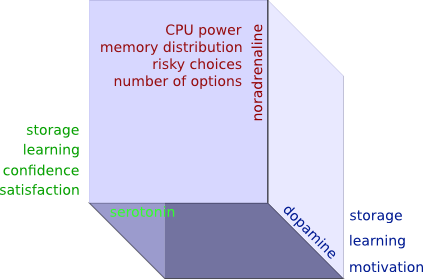
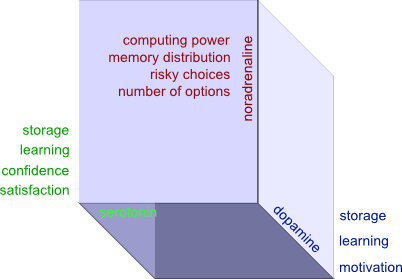
2-160 completed Conclusion section

diff --git a/doc/emotions/computational emotions via virtual neuromodulators/artificial_emotions_via_virtual_neuromodulators.md b/doc/emotions/computational emotions via virtual neuromodulators/artificial_emotions_via_virtual_neuromodulators.md
@@ -91,7 +91,7 @@ Having neuromodulation mechanisms understanding, mainly the roles of neuromodula
 ![parameter mapping](cube_of_parameters_agi.png)
 
 1. Generic:
-  2. CPU power: noradrenaline
+  2. Computing power: noradrenaline
   2. Memory distribution (attention): noradrenaline
   2. Learning: serotonin, dopamine
   2. Storage: serotonin, dopamine
@@ -231,8 +231,45 @@ H-CogAff is more of philosophical framework to build the cognitive architecture,
 
 We created sythetic theory of emotions based on for starting points: Robert Plutchick "Wheel of emotions" [natureofemotions, senticcomputing] as highlevel subjective model of emoitons, Tomkins theory of affects [primer_affect_psychology] as low level objective model of affects/emotions, Hugo Lovheim "Cube of emotions" [cubeofemotions] as objective neurophysiological mechanism, Marvin Minsky "The emotion machine" [emotionmachine] as cognitive architecture environment for all mechanisms listed above.
 
+Our main assumption is that there could be two models of emotions: innate low level based on affects, and high level self emerged during childhood nurture and education. This two models should correspond and have mechanism to influence each other. This is done in one more model neuromodulatory bases of emotions [cubeofemotions, neuromodulatory].
+Overall the emotional processes have following structure: stimulus non-conscious appraisal, neuromodulation (physiological emotional state switch), conscious appraisal with possible deliberation and possible coping strategy selection, coping strategy application over environment. As coping, or some other behavior is applied over environment its state is appraised again as new stimulus. This processes is called feedback loop [natureofemotions] and creates everlasting spiral process of emotions appraisal -> neuromodulation (physiological impact) -> coping. In the similar way high level thinking processes could influence emotional state: for example reflective thinking could trigger neuromodulation switching emotional state of a system and start/stop cognitive appraisal, deliberation.
+Thus neuromodulators are main actors of objective brain response we mapped their impact over computational system parameters:
 
+1. Generic:
+  2. Computing power: noradrenaline
+  2. Memory distribution (attention): noradrenaline
+  2. Learning: serotonin, dopamine
+  2. Storage: serotonin, dopamine
+1. Decision making/reward processing:
+  2. Confidence: serotonin
+  2. Satisfaction: serotonin
+  2. Motivation, wanting: dopamine
+  2. Risky choices inclination: noradrenaline
+  2. Number of options to process: noradrenaline
 
+This mapping could be used as main low level mechanism that build a bridge from neuro-scientific model to computational system and answers the question: "How emotions could influence computational system parameters?".
+
+We briefly described the appraisal and coping processes closely related to emotional states and reactions. This creates overall closed and looped (spiral) system of emotional collaboration of system with environment and emotional processing of internal psychological states.
+
+To complete the picture of emotional interactions we propose high level emotions to neuromodulators level mapping integrated in "Cube of emotions" [cubeofemotions]. We assume Gaussian nature of mapping of subjective high level emotions to objective low level neuromodulation [senticcomputing, neuralcorrelatesofhate]:
+
+1. **G(Optimism Intensity)** = 1.0 serotonin  + 1.0 dopamine + 0.5 noradrenaline;
+1. **G(Love Intensity)** = 0.75 serotonin + 1.0 dopamine + 0.0 noradrenaline;
+1. **G(Submission Intensity)** = 0.25 serotonin + 1.0 dopamine + 0.0 noradrenaline;
+1. **G(Awe Intensity)** = 0.5 serotonin + 0.5 dopamine + 0.5 noradrenaline;
+1. **G(Disapproval Intensity)** = 0.5 serotonin + 0.0 dopamine + 1.0 noradrenaline;
+1. **G(Remorse Intensity)** = 0.0 serotonin + 0.0 dopamine + 0.0 noradrenaline;
+1. **G(Contempt Intensity)** = 0.5 serotonin + 0.5 dopamine + 0.5 noradrenaline;
+1. **G(Aggressiveness Intensity)** = 0.5 serotonin + 1.0 dopamine + 1.0 noradrenaline;
+
+Presented mapping completes neuromodulation centric low level emotion model, it could be used in spiking neural network to implement emotional thinking phenomenas in computational systems. We suppose this could be useful framework to be used in several domains:
+
+1. Advertisement
+1. Emotional behavior simulations
+1. Robotics
+1. Intellectual assistants
+1. Estimating human behaviour
+1. Nursing software and robotics.
 
 ##Acknowledgment
 
